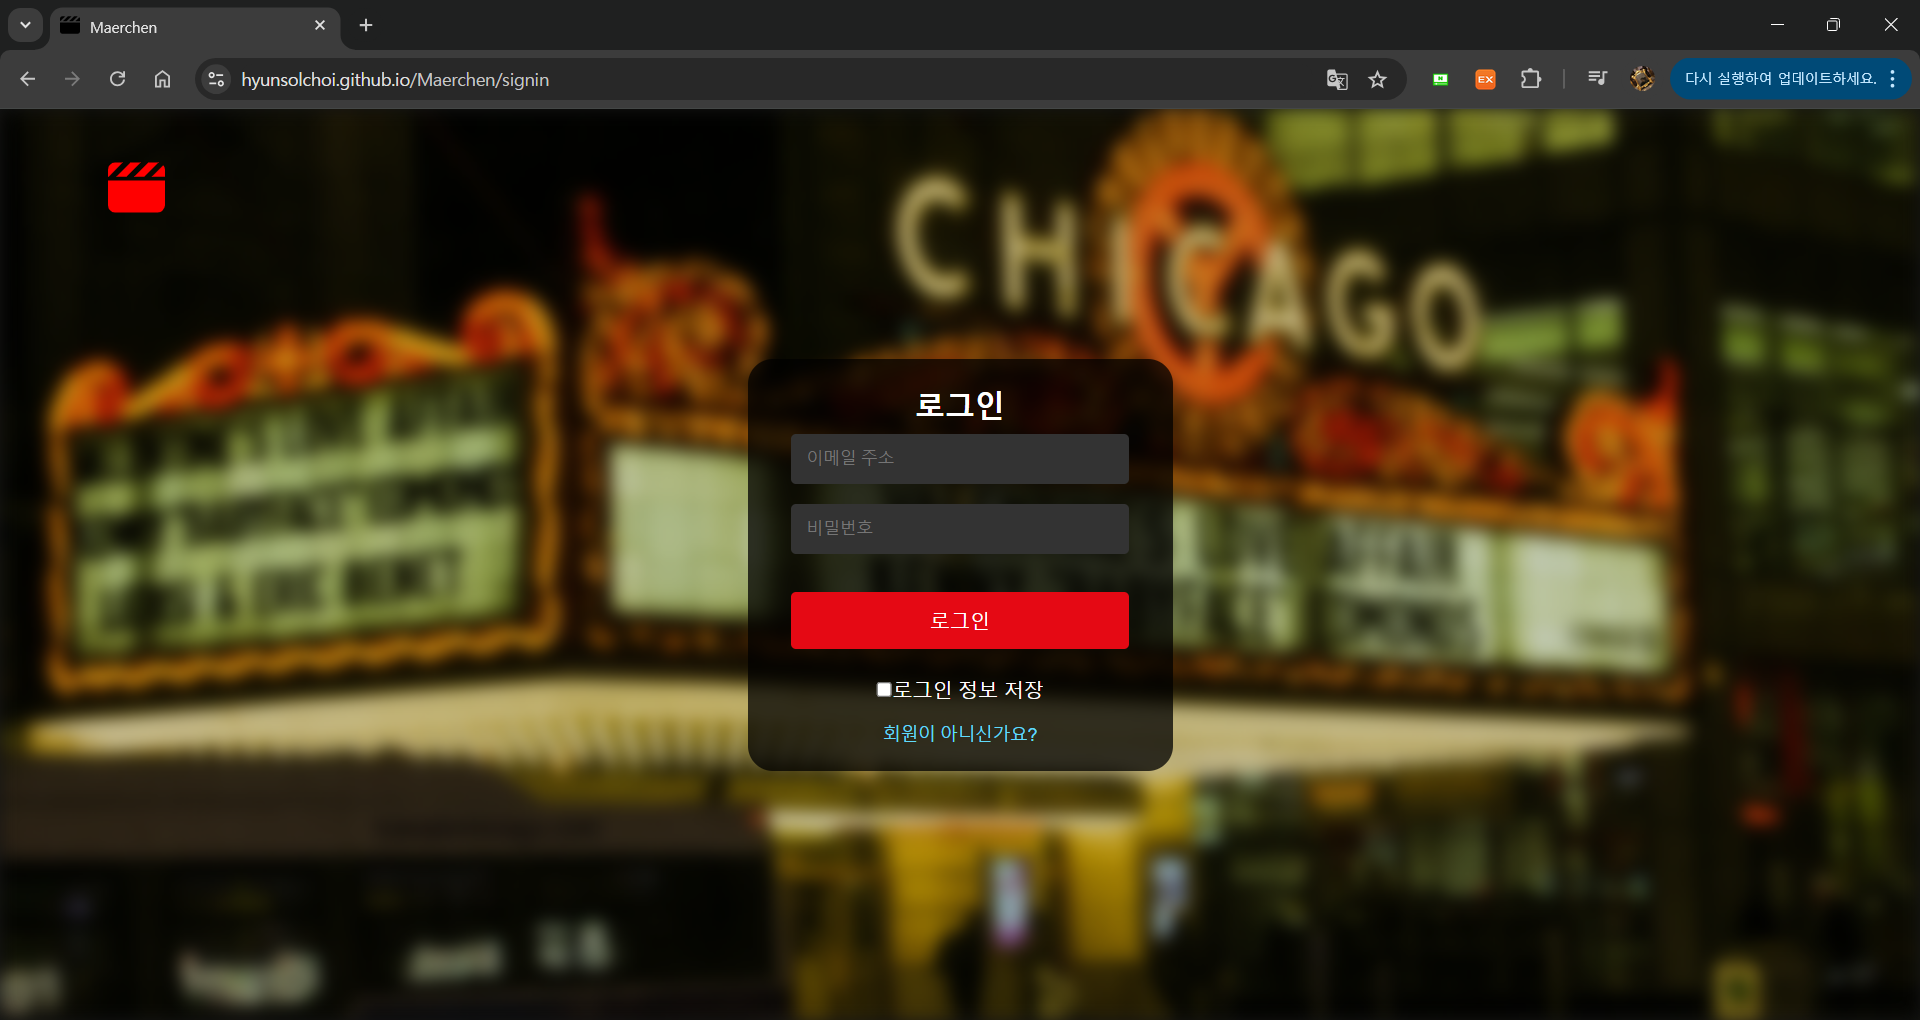
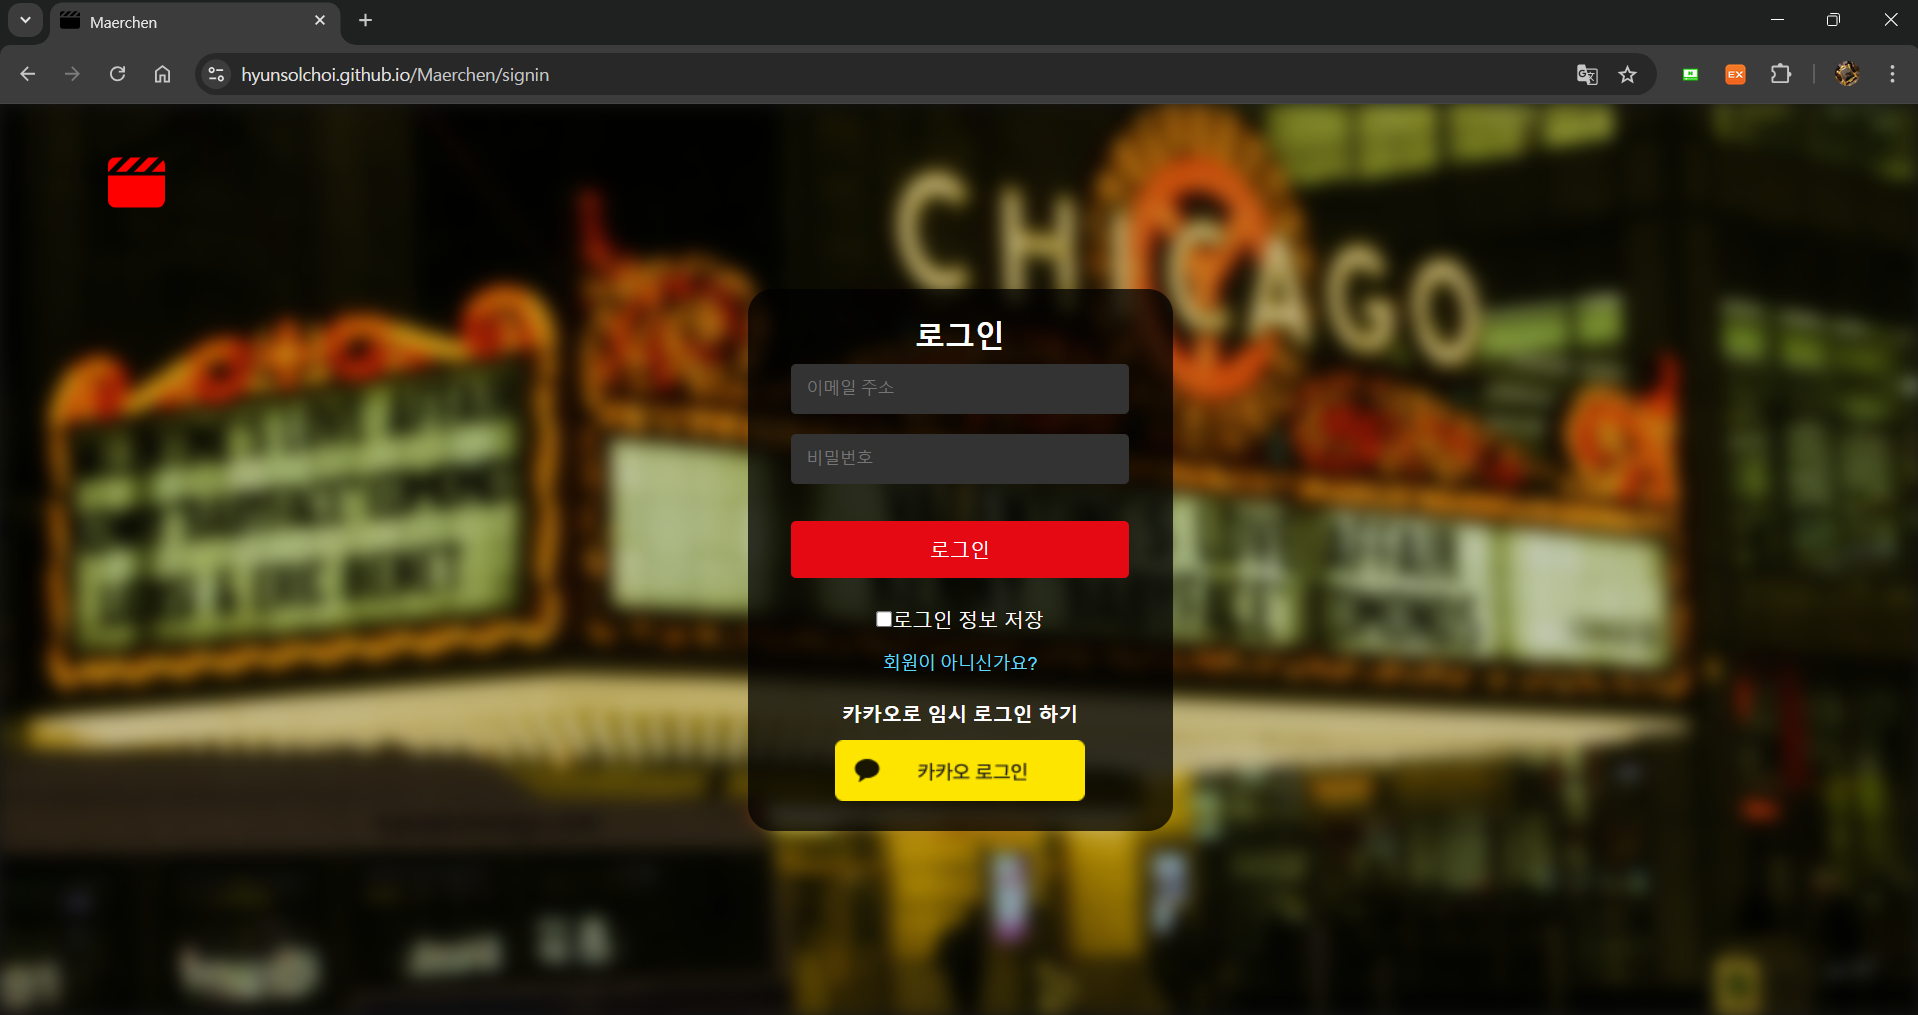
Real Legend Final push

diff --git a/src/components/signIn/SignIn.tsx b/src/components/signIn/SignIn.tsx
@@ -40,13 +40,13 @@ function SignIn({ onLogin, onKakaoLogin }: SignInProps) {
                 script.onload = () => {
                     if (window.Kakao && !window.Kakao.isInitialized()) {
                         window.Kakao.init(process.env.REACT_APP_KAKAO_JS_KEY || "");
-                        console.log("Kakao SDK initialized");
+                        //console.log("Kakao SDK initialized");
                     }
                 };
                 document.head.appendChild(script);
             } else if (!window.Kakao.isInitialized()) {
                 window.Kakao.init(process.env.REACT_APP_KAKAO_JS_KEY || "");
-                console.log("Kakao SDK initialized");
+                //console.log("Kakao SDK initialized");
             }
         };
         loadKakaoSDK();

diff --git a/src/App.tsx b/src/App.tsx
@@ -110,8 +110,6 @@ function App() {
 
                 if (!response.ok){
                     toast.error('Access Token 만료 실패' + response.status);
-                } else{
-                    console.log("만료 성공!");
                 }
             } catch (error) {
                 console.error('Access Token 만료 중 오류 발생', error);

diff --git a/README.md b/README.md
@@ -238,5 +238,11 @@ You can learn more in the [Create React App documentation](https://facebook.gith
 
 To learn React, check out the [React documentation](https://reactjs.org/).
 
+## Updated KakaoLogin
+
+You can also login with kakao-account without register.
+
+The nickname and profile image are used for storing and displaying user information.
+
 
 # Thanks for being here !
